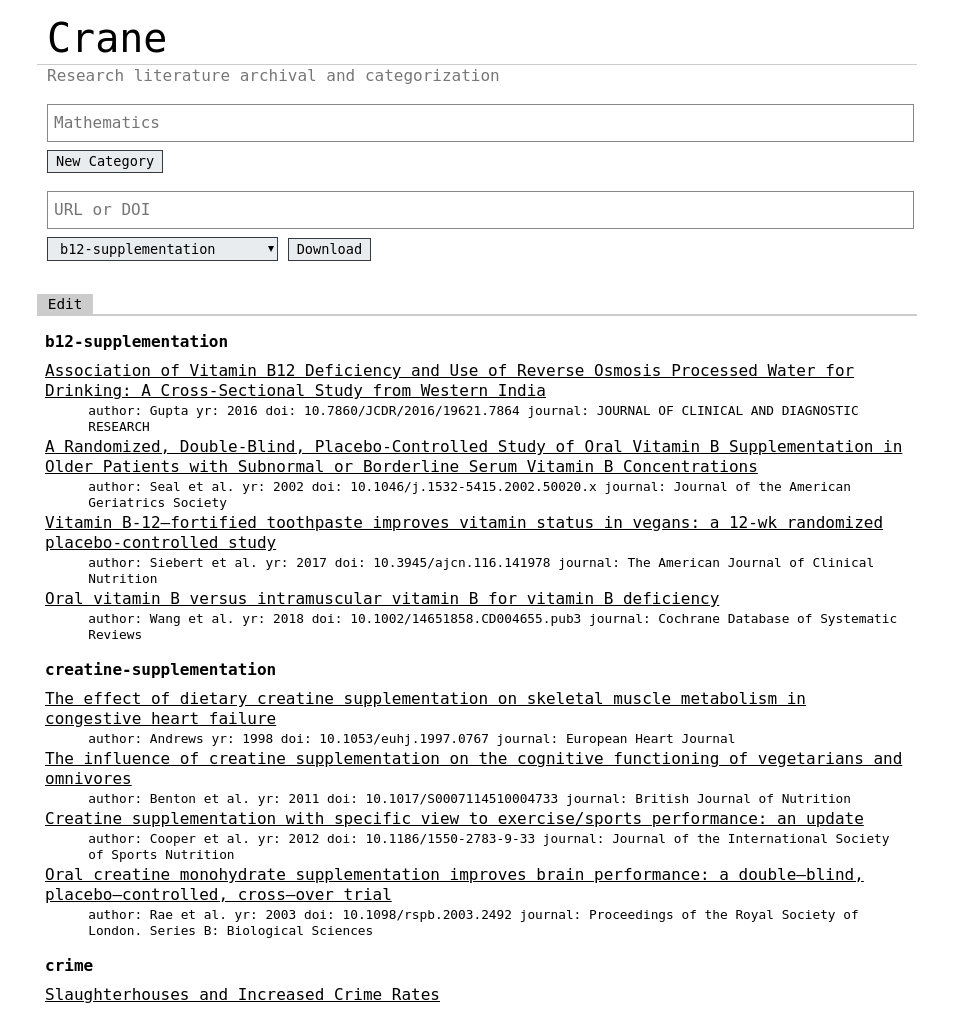
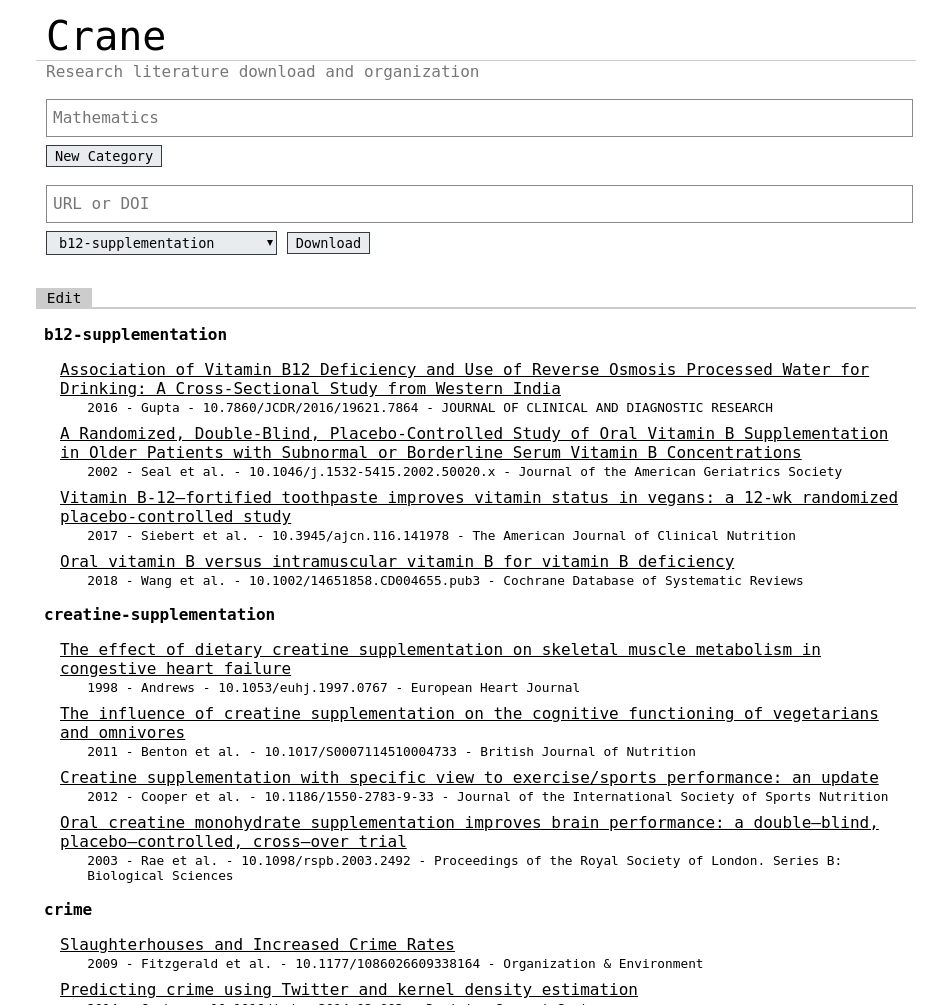
layout, css cleanup

Changed region(s): [[0.0305, 0.0308, 0.9443, 1.0], [0.7006, 0.9562, 0.7311, 0.9871]]

diff --git a/templates/layout.html b/templates/layout.html
@@ -19,9 +19,10 @@
 div#crane {
   font-family: monospace;
   padding: 0em;
-  margin: 0em;
   background: white;
   padding: 4px;
+  max-width: 55em;
+  margin: auto;
 }
 
 div#crane a {
@@ -155,10 +156,6 @@ div#crane table.list {
   border-collapse: collapse;
 }
 
-div#crane table.list tr {
-  background: white;
-}
-
 div#crane table.list:first-child tr:first-child td:first-child {
   padding-top: 0em;
 }
@@ -168,16 +165,6 @@ div#crane table.list td.sub {
   font-size: 80%;
 }
 
-div#crane table.list th {
-  font-weight: bold;
-  /* color: #888;
-  border-top: dashed 1px #888;
-  border-bottom: dashed 1px #888;
-  */
-  padding: 0.1em 0.5em 0.05em 0.5em;
-  vertical-align: baseline;
-}
-
 div#crane table.list td {
   border: none;
   padding: 0.1em 0.5em 0.1em 0.5em;
@@ -185,48 +172,12 @@ div#crane table.list td {
 
 div#crane table.list td.title {
   text-decoration: underline;
-}
-
-div#crane table.list td.authors {
-  max-width: 10em;
-}
-
-div#crane table.list td.year {
-  max-width: 5em;
-}
-
-div#crane table.list td.doi {
-  max-width: 5em;
-}
-
-div#crane table.list td a {
-  color: black;
+  padding-top: 0.5em;
+  padding-left: 1.5em;
 }
 
 div#crane table.list td a:hover {
   color: #00f;
-}
-
-div#crane img {
-  border: none;
-}
-
-div#crane td#content {
-  vertical-align: top;
-  padding: 1em 2em 1em 1em;
-  border: none;
-}
-
-div#crane table.nowrap td {
-  white-space: normal;
-}
-
-div#crane .left {
-  text-align: left;
-}
-
-div#crane .right {
-  text-align: right;
 }
 
 div#crane table.list td.papersection {
@@ -234,9 +185,6 @@ div#crane table.list td.papersection {
   padding-top: 1em;
   padding-bottom: .5em;
   color: black;
-}
-
-div#crane table.list td.sublevel-paper {
 }
 
 div#crane div.footer {
@@ -254,30 +202,6 @@ div#crane div.footer a {
 div#crane div.footer a:hover {
   text-decoration: underline;
 }
-
-* { line-height: 1.25em; }
-
-div#crane {
-  max-width: 55em;
-  margin: auto;
-  -moz-tab-size: 4;
-  tab-size: 4;
-}
-
-div#crane table.list th a {
-  color: inherit;
-}
-
-div#crane table.list tr.nohover-highlight:hover:nth-child(even) {
-  background: inherit;
-}
-
-div#crane table.blob td.linenumbers a:target {
-  color: goldenrod;
-  text-decoration: underline;
-  outline: none;
-}
-
 </style>
 </head>
 <body>
@@ -285,7 +209,7 @@ div#crane table.blob td.linenumbers a:target {
 <div id='crane'>
 <table id='header'>
   <tr><td class='main'><a href="/">Crane</a></td></tr>
-  <tr><td class='sub'>Research literature archival and categorization</td></tr>
+  <tr><td class='sub'>Research literature download and organization</td></tr>
 </table>
 {{ block "content" . }}{{ end }}
 <div class='footer'><a href='https://git.jordan.im/crane'>crane</a></div>

diff --git a/templates/admin-edit.html b/templates/admin-edit.html
@@ -57,7 +57,7 @@
   </tr>
   <tr>
     {{ if $paper.Meta.Title }}
-    <td class="sub">author: {{ $contCount := len $paper.Meta.Contributors }} {{ if gt $contCount 0 }}{{ $author := index $paper.Meta.Contributors 0 }}<a href='/?a={{ $author.LastName }}'>{{ $author.LastName }}{{ if gt $contCount 1 }} et al.{{ end }}{{ end }}</a> yr: <a href="?y={{ $paper.Meta.PubYear }}">{{ $paper.Meta.PubYear }}</a> doi: <a href="https://doi.org/{{ $paper.Meta.DOI }}">{{ $paper.Meta.DOI }}</a> journal: <font color="black">{{ $paper.Meta.Journal }}</font></td>
+    <td class="sub">{{ $paper.Meta.PubYear }} - {{ $contCount := len $paper.Meta.Contributors }} {{ if gt $contCount 0 }}{{ $author := index $paper.Meta.Contributors 0 }}{{ $author.LastName }}{{ if gt $contCount 1 }} et al.{{ end }}{{ end }} - <a href="https://doi.org/{{ $paper.Meta.DOI }}">{{ $paper.Meta.DOI }}</a> - {{ $paper.Meta.Journal }}</td>
     {{ else }}
     <td></td>
     {{ end }}

diff --git a/templates/list.html b/templates/list.html
@@ -16,7 +16,7 @@
   </tr>
   <tr>
     {{ if $paper.Meta.Title }}
-    <td class="sub">author: {{ $contCount := len $paper.Meta.Contributors }} {{ if gt $contCount 0 }}{{ $author := index $paper.Meta.Contributors 0 }}<a href='/?a={{ $author.LastName }}'>{{ $author.LastName }}{{ if gt $contCount 1 }} et al.{{ end }}{{ end }}</a> yr: <a href="?y={{ $paper.Meta.PubYear }}">{{ $paper.Meta.PubYear }}</a> doi: <a href="https://doi.org/{{ $paper.Meta.DOI }}">{{ $paper.Meta.DOI }}</a> journal: <font color="black">{{ $paper.Meta.Journal }}</font></td>
+    <td class="sub">{{ $paper.Meta.PubYear }} - {{ $contCount := len $paper.Meta.Contributors }} {{ if gt $contCount 0 }}{{ $author := index $paper.Meta.Contributors 0 }}{{ $author.LastName }}{{ if gt $contCount 1 }} et al.{{ end }}{{ end }} - <a href="https://doi.org/{{ $paper.Meta.DOI }}">{{ $paper.Meta.DOI }}</a> - {{ $paper.Meta.Journal }}</td>
     {{ else }}
     <td></td>
     {{ end }}
